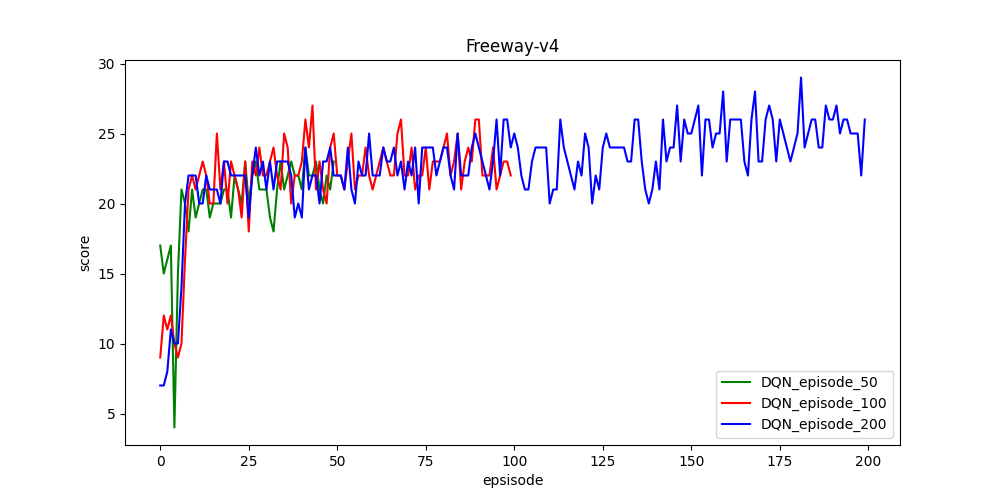
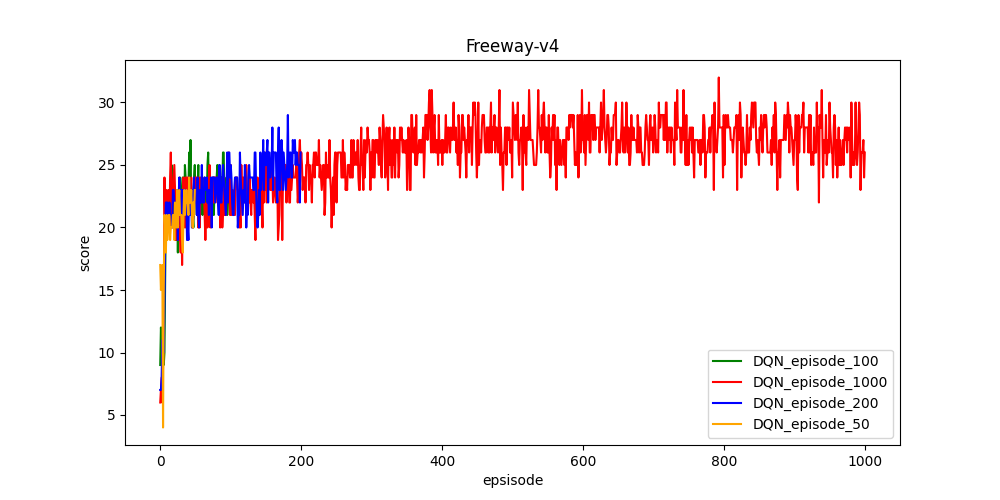
update DQN_train.py

diff --git a/DQN_train.py b/DQN_train.py
@@ -11,6 +11,15 @@ from ale_py import ALEInterface
 from ale_py.roms import Freeway
 from collections import deque
 
+"""
+    Hyperparameters:
+    - epsilon: Determines the explore/expliot rate of the agent
+    - learning_rate: Determines the step size while moving toward a minimum of a loss function
+    - GAMMA: the discount factor (tradeoff between immediate rewards and future rewards)
+    - batch_size: the number of samples which will be propagated through the neural network
+    - capacity: the size of the replay buffer/memory
+"""
+
 parser = argparse.ArgumentParser()
 parser.add_argument("--file", type=str, default="DQN_rewardsratio_1")
 parser.add_argument("--train_times", type=int, default=1)
@@ -25,7 +34,7 @@ parser.add_argument("--inner_layer_size", type=int, default=256)
 parser.add_argument("--hidden_layer_size", type=int, default=512)
 
 parser.add_argument("--episode", type=int, default=250)
-# total 2049 steps in Freeway
+
 parser.add_argument("--learn_threshold", type=int, default=10245)
 parser.add_argument("--reward_ratio", type=int, default=1000)
 
@@ -37,7 +46,7 @@ best_score = float('-inf')
 
 class replay_buffer():
     '''
-    A deque storing trajectories
+        - A deque storing trajectories
     '''
 
     def __init__(self, capacity):
@@ -46,33 +55,13 @@ class replay_buffer():
 
     def insert(self, state, action, reward, next_state, done):
         '''
-        Insert a sequence of data gotten by the agent into the replay buffer.
-
-        Parameter:
-            state: the current state
-            action: the action done by the agent
-            reward: the reward agent got
-            next_state: the next state
-            done: the status showing whether the episode finish
-
-        Return:
-            None
+            - Insert a sequence of data gotten by the agent into the replay buffer.
         '''
         self.memory.append([state, action, reward, next_state, done])
 
     def sample(self, batch_size):
         '''
-        Sample a batch size of data from the replay buffer.
-
-        Parameter:
-            batch_size: the number of samples which will be propagated through the neural network
-
-        Returns:
-            observations: a batch size of states stored in the replay buffer
-            actions: a batch size of actions stored in the replay buffer
-            rewards: a batch size of rewards stored in the replay buffer
-            next_observations: a batch size of "next_state"s stored in the replay buffer
-            done: a batch size of done stored in the replay buffer
+            - Sample a batch size of data from the replay buffer.
         '''
         batch = random.sample(self.memory, batch_size)
         observations, actions, rewards, next_observations, done = zip(*batch)
@@ -96,15 +85,9 @@ class Net(nn.Module):
 
     def forward(self, states):
         '''
-        Forward the state to the neural network.
-
-        Parameter:
-            states: a batch size of states
-
-        Return:
-            q_values: a batch size of q_values
+           - Forward the state to the neural network.
+           - Return a batch size of q_values
         '''
-
         x = F.relu(self.fc1(states))
         x = F.relu(self.fc2(x))
         q_values = self.fc3(x)
@@ -113,16 +96,9 @@ class Net(nn.Module):
 
 class Agent():
     def __init__(self, env, epsilon=args.epsilon, learning_rate=args.learning_rate, GAMMA=args.GAMMA, batch_size=args.batch_size, capacity=args.capacity):
-        """
-        The agent learning how to control the action of the cart pole.
-
-        Hyperparameters:
-            epsilon: Determines the explore/expliot rate of the agent
-            learning_rate: Determines the step size while moving toward a minimum of a loss function
-            GAMMA: the discount factor (tradeoff between immediate rewards and future rewards)
-            batch_size: the number of samples which will be propagated through the neural network
-            capacity: the size of the replay buffer/memory
-        """
+        '''
+            - The agent learning how to control the action of the agent.
+        '''
         self.env = env
         self.n_actions = 3  # the number of actions
         self.count = 0  # recording the number of iterations
@@ -142,27 +118,17 @@ class Agent():
 
     def learn(self):
         '''
-        - Implement the learning function.
-        - Here are the hints to implement.
+            - Implement the learning function.
 
-        Steps:
-        -----
-        1. Update target net by current net every 100 times. (we have done for you)
-        2. Sample trajectories of batch size from the replay buffer.
-        3. Forward the data to the evaluate net and the target net.
-        4. Compute the loss with MSE.
-        5. Zero-out the gradients.
-        6. Backpropagation.
-        7. Optimize the loss function.
-        -----
-
-        Parameters:
-            self: the agent itself.
-            (Don't pass additional parameters to the function.)
-            (All you need have been initialized in the constructor.)
-
-        Returns:
-            None (Don't need to return anything)
+            Steps:
+            -----
+            1. Update target net by current net every 100 times.
+            2. Sample trajectories of batch size from the replay buffer.
+            3. Forward the data to the evaluate net and the target net.
+            4. Compute the loss with MSE.
+            5. Zero-out the gradients.
+            6. Backpropagation.
+            7. Optimize the loss function.
         '''
         if self.count % 100 == 0:
             self.target_net.load_state_dict(self.evaluate_net.state_dict())
@@ -190,19 +156,10 @@ class Agent():
         self.optimizer.step()
 
     def choose_action(self, state):
-        """
-        - Implement the action-choosing function.
-        - Choose the best action with given state and epsilon
-
-        Parameters:
-            self: the agent itself.
-            state: the current state of the enviornment.
-            (Don't pass additional parameters to the function.)
-            (All you need have been initialized in the constructor.)
-
-        Returns:
-            action: the chosen action.
-        """
+        '''
+            - Implement the action-choosing function.
+            - Choose the best action with given state and epsilon
+        '''
         with torch.no_grad():
             x = torch.unsqueeze(torch.FloatTensor(state), 0)
             r = np.random.rand()
@@ -219,6 +176,9 @@ class Agent():
 
 
 def train(env):
+    '''
+        - Trainning process: total 2049 steps in Freeway
+    '''
     agent = Agent(env)
     rewards = []
     for _ in tqdm(range(args.episode)):

diff --git a/plot.py b/plot.py
@@ -7,14 +7,9 @@ parser = argparse.ArgumentParser()
 parser.add_argument("--DQN", action="store_true")
 parser.add_argument("--multi", action="store_true")
 parser.add_argument("--file1", type=str,
-                    default="DQN_traintimesXepisode_3x100")
-parser.add_argument("--file2", type=str,
-                    default="DQN_traintimesXepisode_2x150")
-parser.add_argument("--file3", type=str,
-                    default="DQN_traintimesXepisode_1x300")
-parser.add_argument("--compare", type=str, default="traintimesXepisode")
+                    default="DQN_episode_1000")
+parser.add_argument("--compare", type=str, default="episode")
 parser.add_argument("--algorithm", type=str, default="DQN")
-parser.add_argument("--episode", type=int, default=200)
 args = parser.parse_args()
 
 
@@ -51,12 +46,12 @@ def multi():
     output_path = "./Graphs/" + args.algorithm + "/" + args.compare + ".png"
 
     rewards = []
-    rewards.append(np.load("./Train_data/" + args.algorithm +
-                   "/rewards/" + args.file1 + ".npy").transpose())
-    rewards.append(np.load("./Train_data/" + args.algorithm +
-                   "/rewards/" + args.file2 + ".npy").transpose())
-    rewards.append(np.load("./Train_data/" + args.algorithm +
-                   "/rewards/" + args.file3 + ".npy").transpose())
+    labels = []
+    path = "./Train_data/" + args.algorithm + "/rewards/"
+    for filename in os.listdir(path):
+        if args.algorithm + "_" + args.compare in filename:
+            rewards.append(np.load(path + filename).transpose())
+            labels.append(filename[0:-4])
 
     avgs = []
     for reward in rewards:
@@ -64,8 +59,7 @@ def multi():
 
     initialize_plot()
 
-    colors = ['green', 'red', 'blue']
-    labels = [args.file1, args.file2, args.file3]
+    colors = ['green', 'red', 'blue', 'orange']
 
     for i in range(len(avgs)):
         plt.plot([j for j in range(len(avgs[i]))],

diff --git a/test.py b/test.py
@@ -10,8 +10,8 @@ from ale_py.roms import Freeway
 parser = argparse.ArgumentParser()
 parser.add_argument("--test_times", type=int, default=10)
 parser.add_argument("--algorithm", type=str, default="DQN")
-parser.add_argument("--compare", type=str, default="traintimesXepisode")
-parser.add_argument("--file", type=str, default="DQN_traintimesXepisode_1x300")
+parser.add_argument("--compare", type=str, default="episode")
+parser.add_argument("--file", type=str, default="DQN_episode_1000")
 args = parser.parse_args()
 
 
@@ -61,6 +61,7 @@ def test(env):
 
 if __name__ == "__main__":
 
+    #env = gym.make('Freeway-v4',  obs_type='ram', render_mode='human')
     env = gym.make('Freeway-v4',  obs_type='ram')
     test(env)
 
